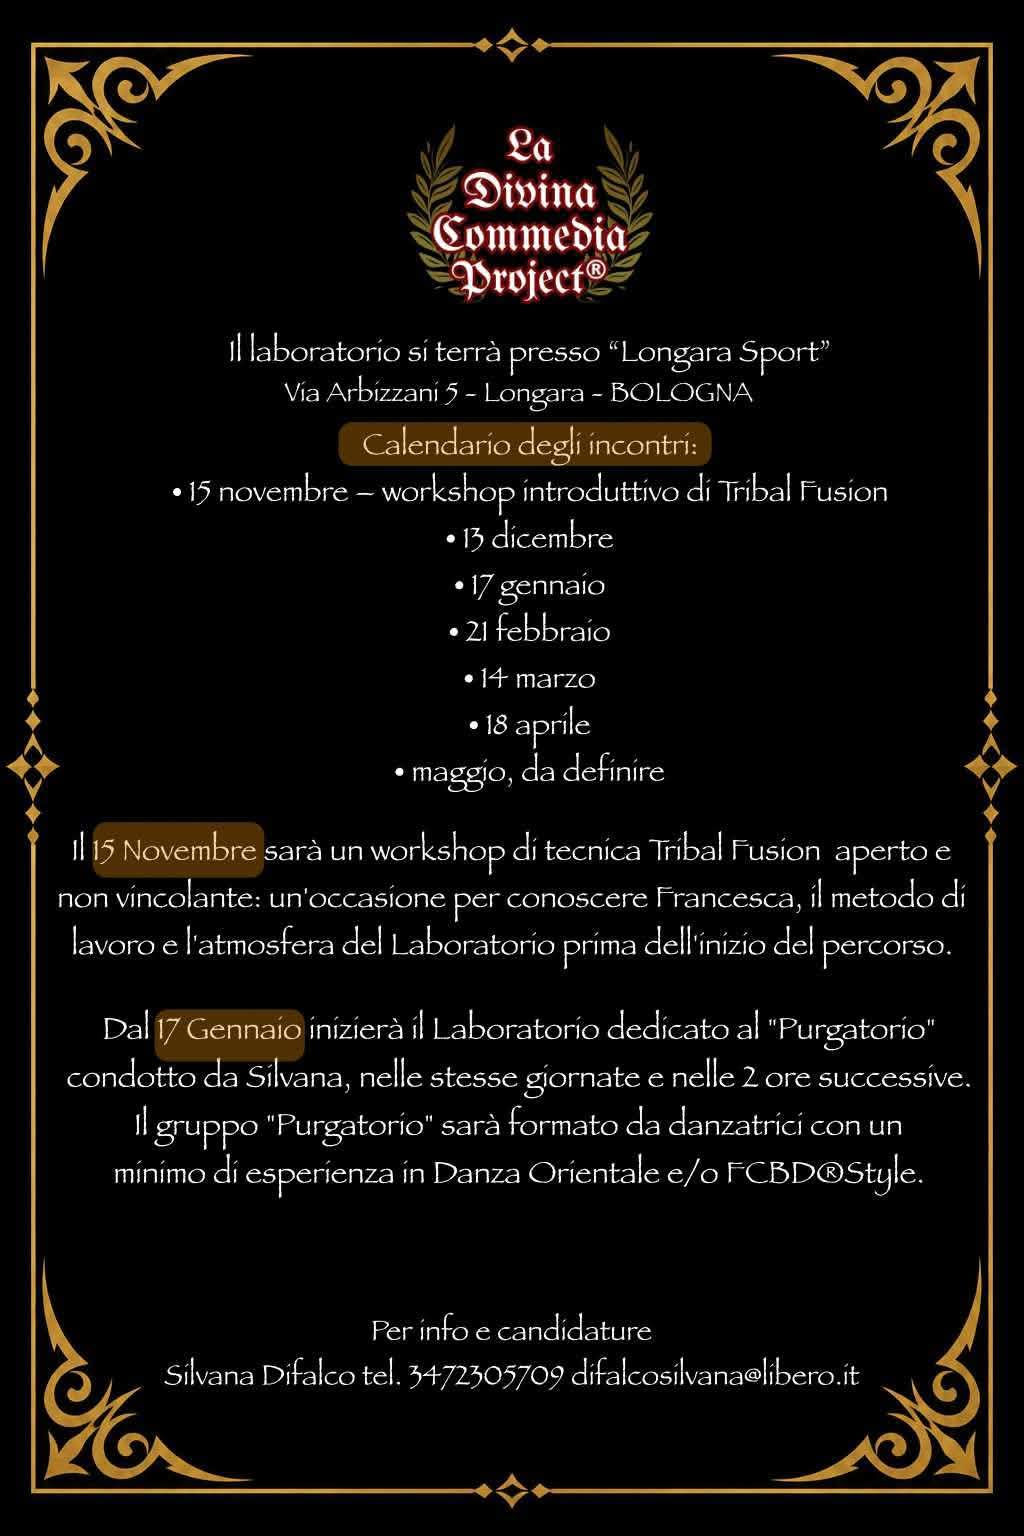
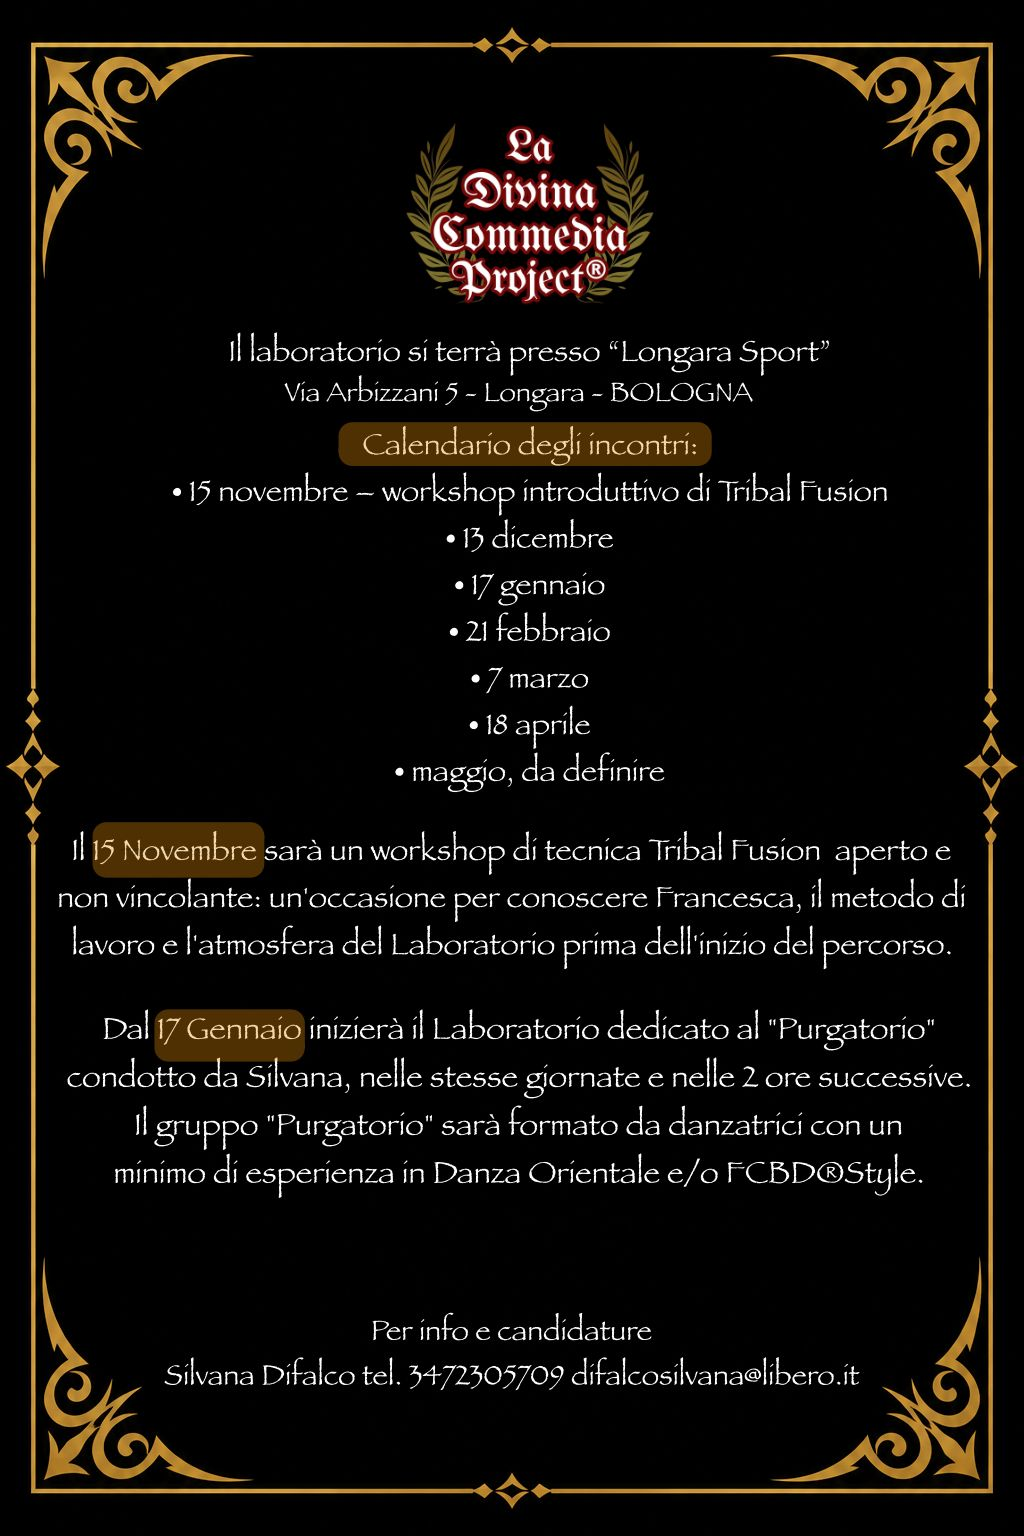
testo3.jpg

diff --git a/_seminari/divinacommedia.md b/_seminari/divinacommedia.md
@@ -51,8 +51,8 @@ tecnica Tribal Fusion, improvvisazione, composizione coreografica, presenza scen
       <br>Dal 17 Gennaio inizierà il Laboratorio dedicato al “Purgatorio” condotto da Silvana, nelle stesse giornate e nelle 2 ore successive.
 <br>Il laboratorio si terrà presso “Longara Sport” Via Arbizzani 5, Longara, BOLOGNA
 <br>Calendario degli incontri:
- 15 novembre (workshop introduttivo di Tribal Fusion) 13 dicembre, 17 gennaio,
-21 febbraio, 7 marz, 18 aprile, maggio da definire. 
+ 15 novembre (workshop introduttivo di Tribal Fusion), 13 dicembre, 17 gennaio,
+21 febbraio, 7 marzo, 18 aprile, maggio da definire. 
 
         </div>
     </div>
